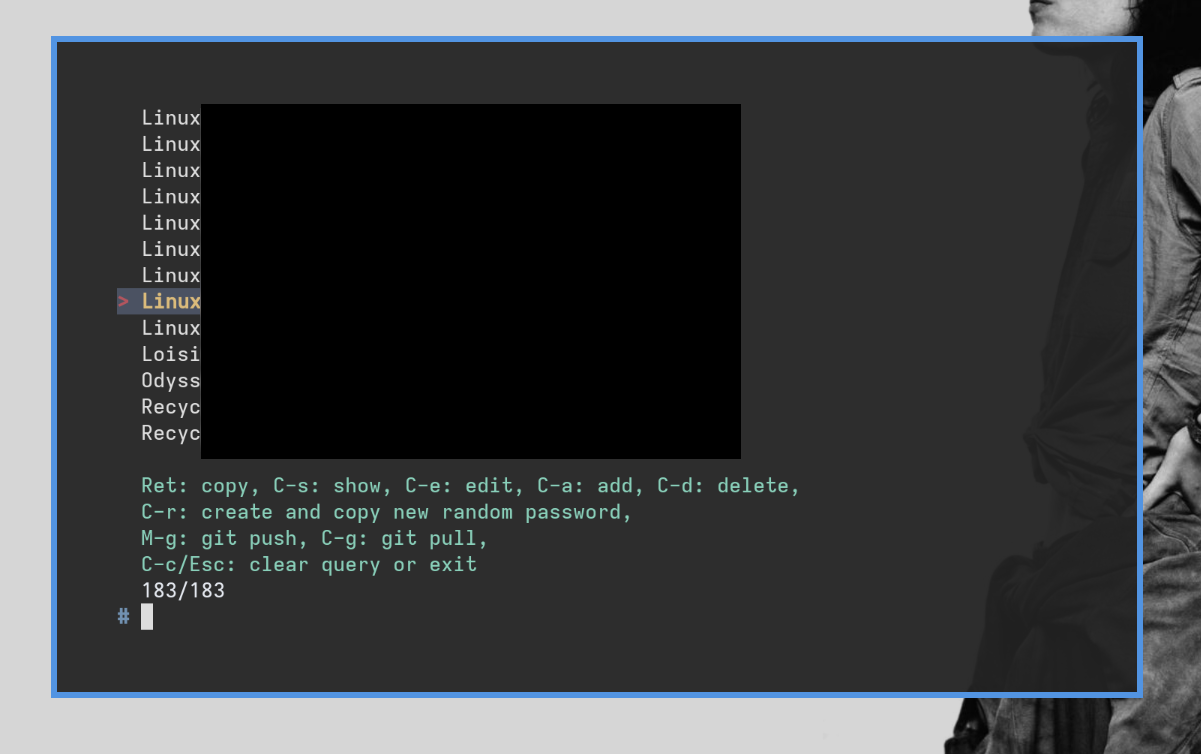
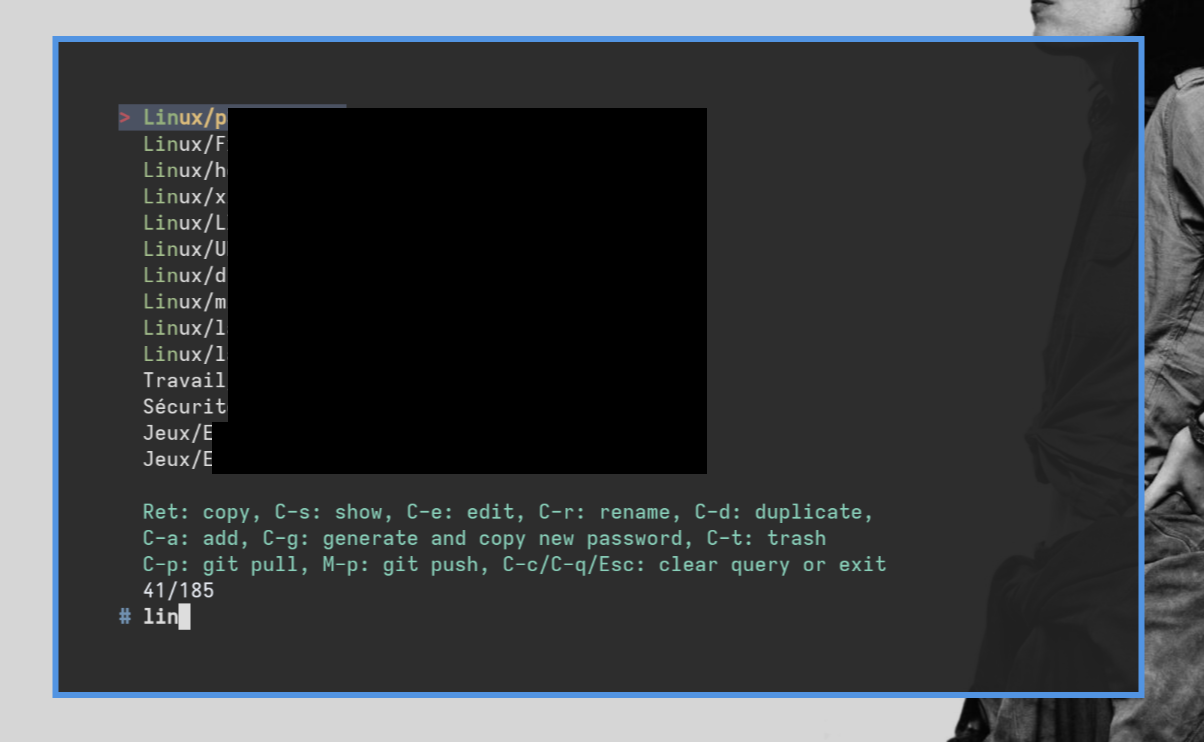
Add support for cp and mv functions, and go back to query instead of selection after adding/generating

diff --git a/README.md b/README.md
@@ -1,4 +1,5 @@
 ```
+
                                           .d888           .d888 
                                          d88P"           d88P"  
                                          888             888    
@@ -13,7 +14,7 @@
      
 ```
 
-`passfzf` is a simple `fzf` wrapper for [`pass`](https://www.passwordstore.org/) (the UNIX password-store). It supports [`pass-tomb`](https://github.com/roddhjav/pass-tomb) but does not require it, and allows fuzzy finding your `pass` passwords to copy them, show them, edit them, delete them, add or generate new passwords, and synchronizing the password store with a remote `git` repository.
+`passfzf` is a simple `fzf` wrapper for [`pass`](https://www.passwordstore.org/) (the UNIX password-store). It supports [`pass-tomb`](https://github.com/roddhjav/pass-tomb) but does not require it, and allows fuzzy finding your `pass` passwords to copy, show, edit, delete, rename and duplicate them. It also supports adding add or generating new passwords, as well as synchronizing the password store with a remote `git` repository.
 
 There are already `pass` extensions doing similar things, but they are not available for all distributions and I prefer using a simple shell script with minimal dependencies that I can easily customize instead of depending on an extension. 
 
